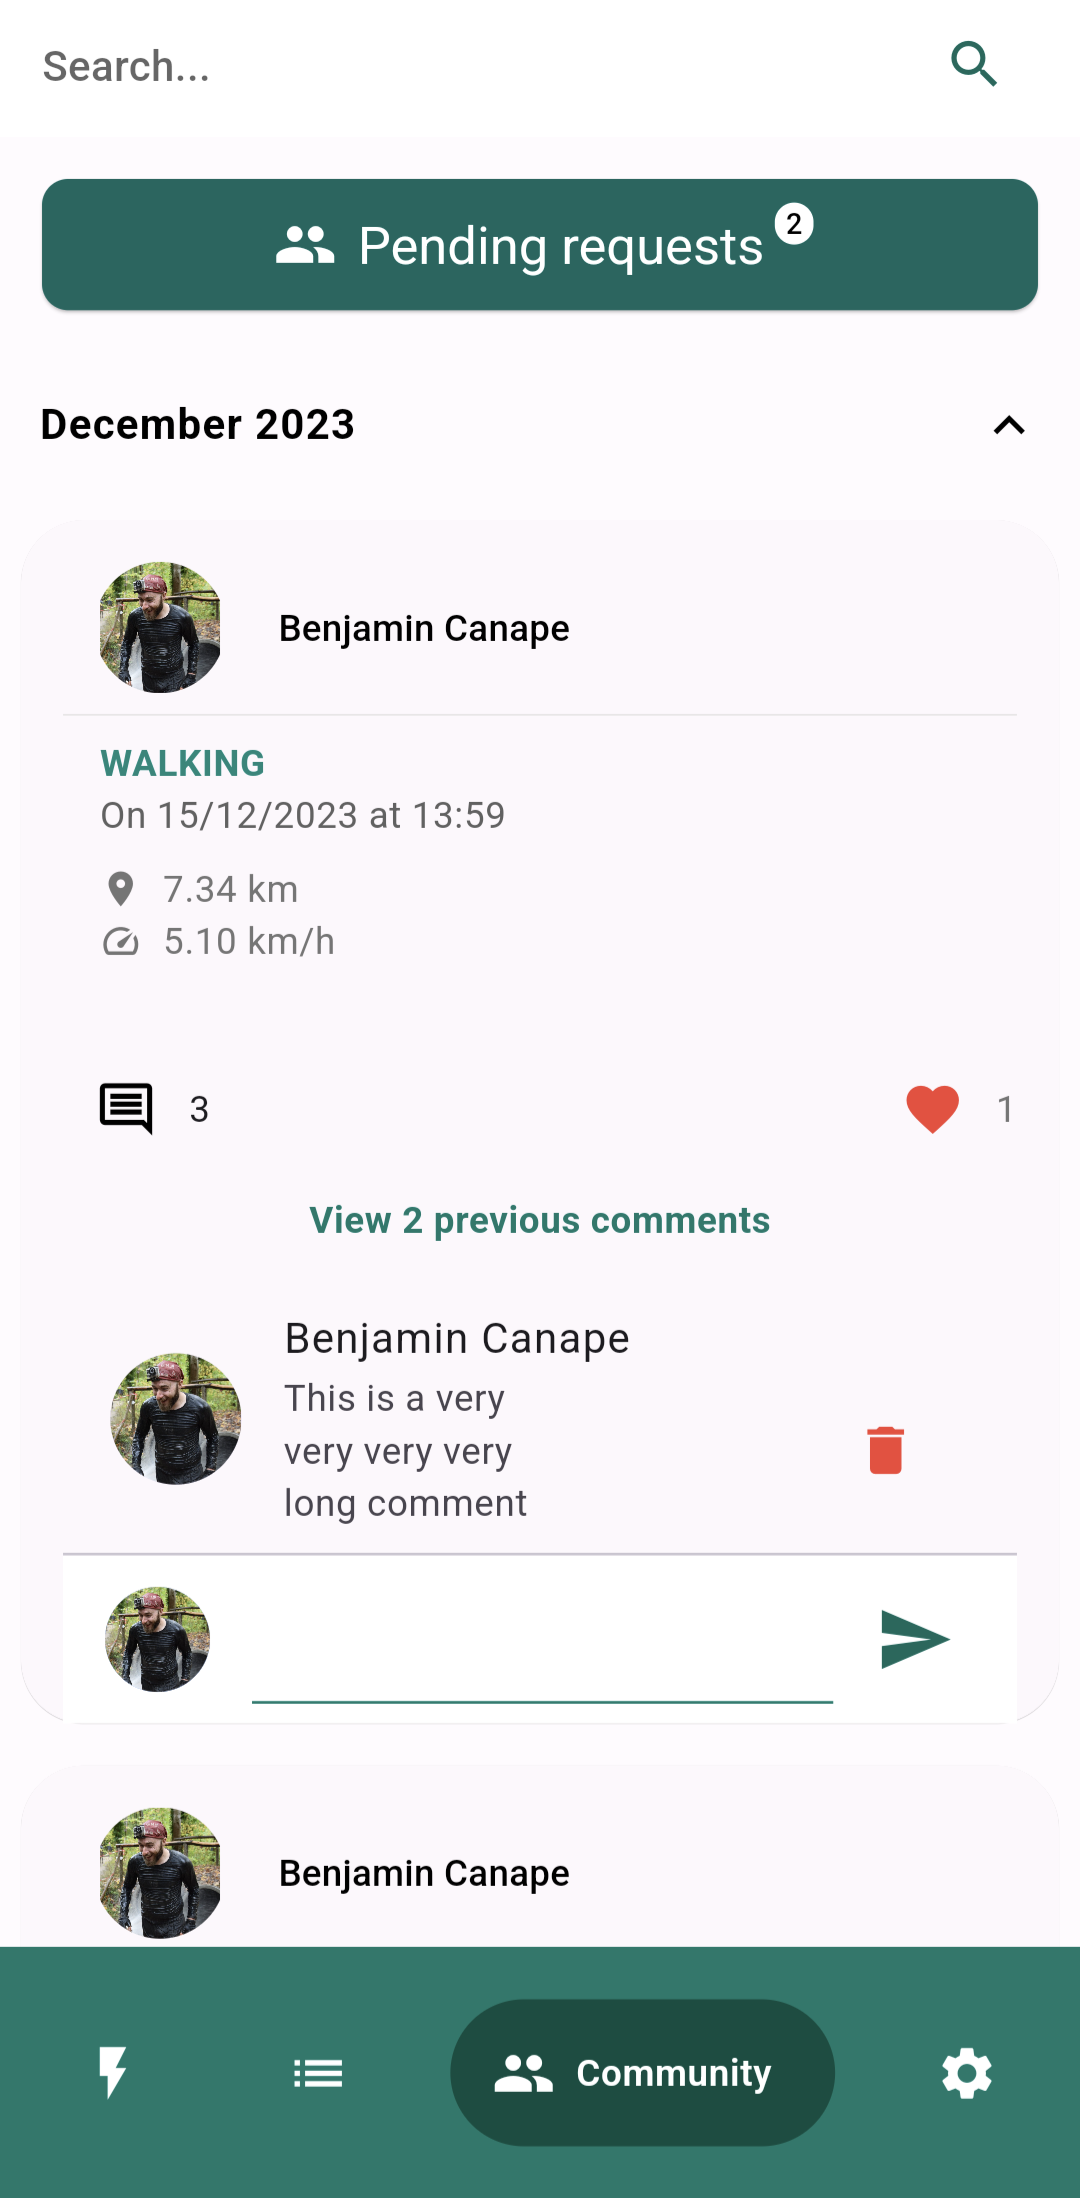
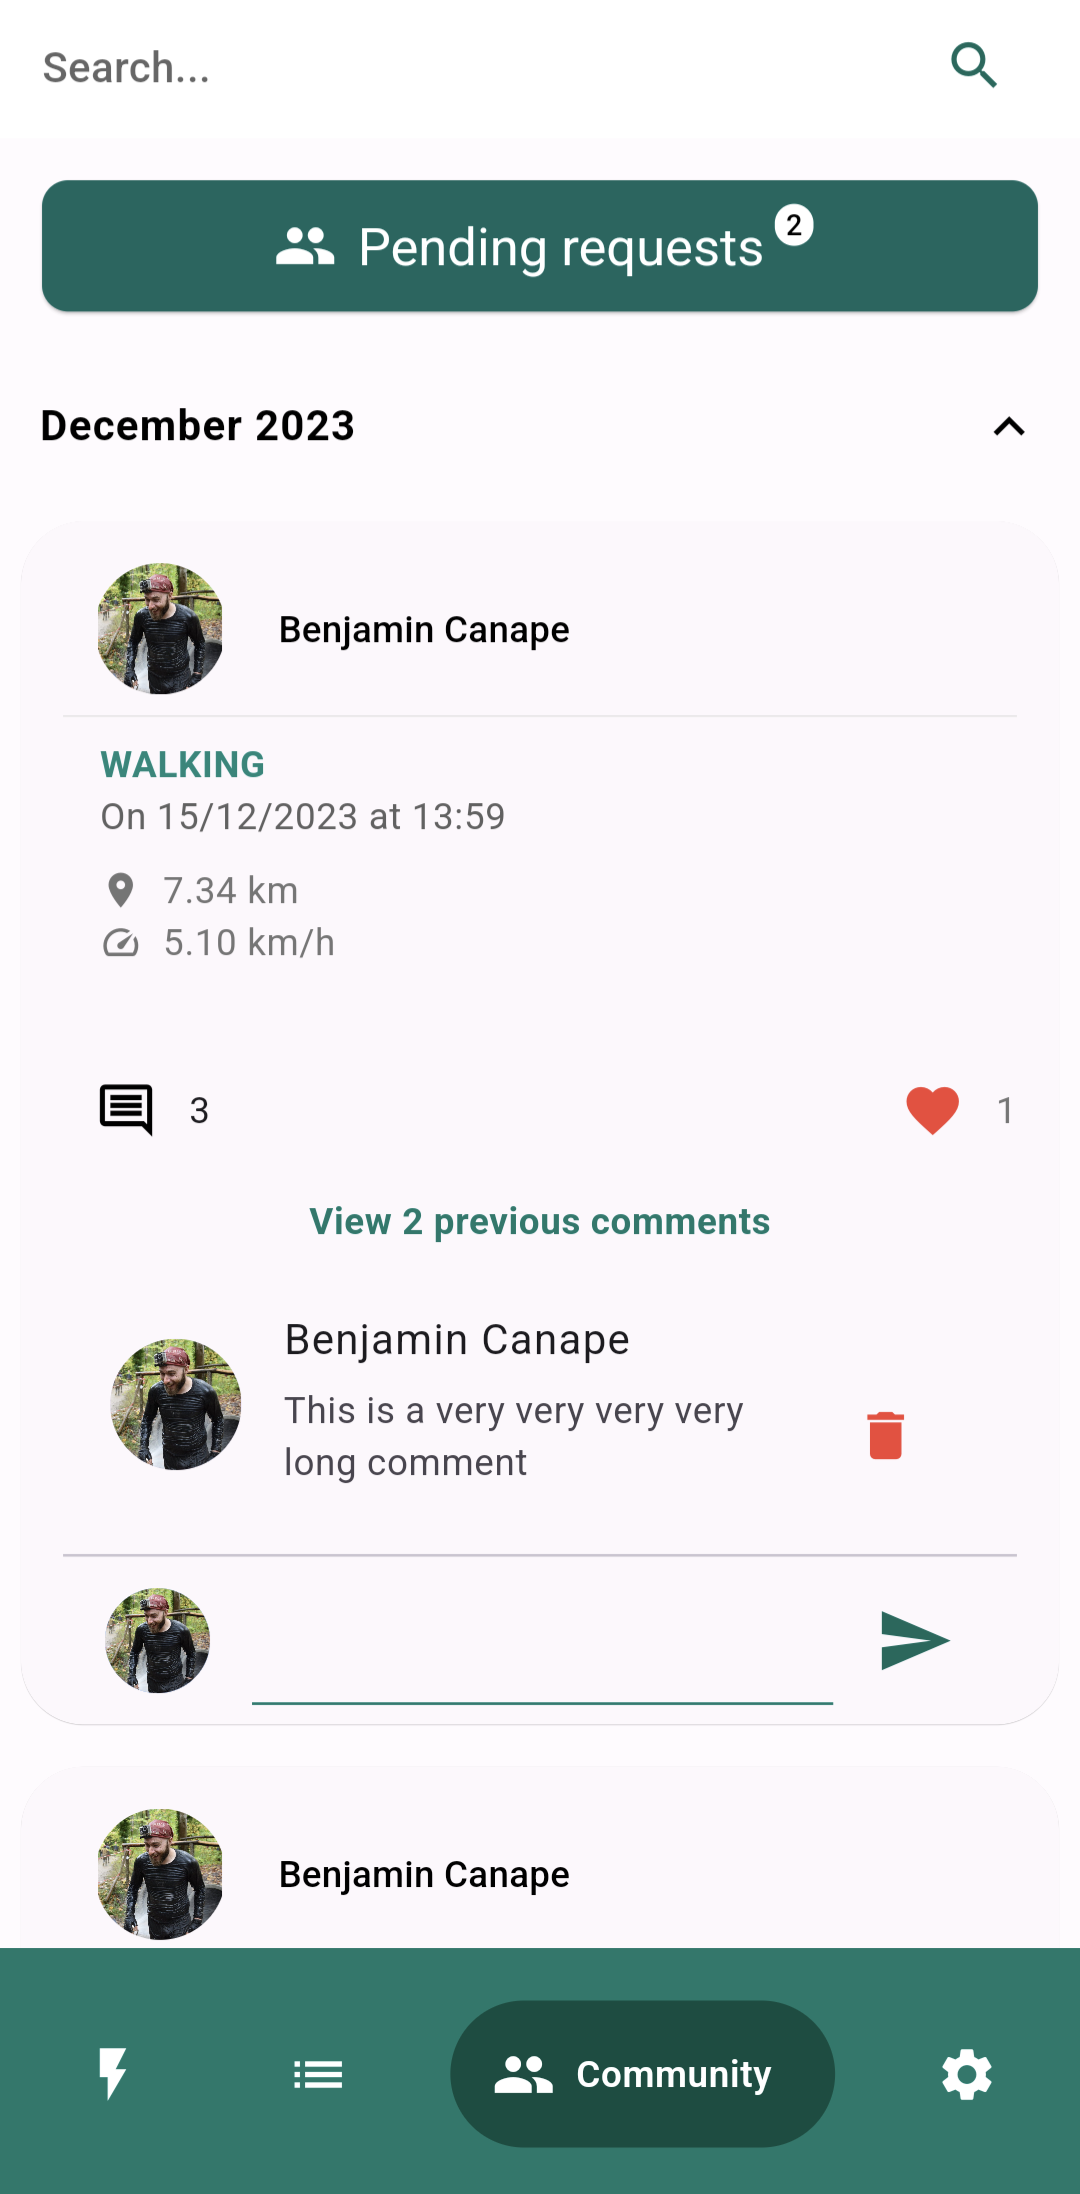
crop profile picture feature and improve comment display (#50)
* crop profile picture feature

* improve comment style

* fix comment style

* fix default color for comment

diff --git a/lib/presentation/common/activity/widgets/activity_comments.dart b/lib/presentation/common/activity/widgets/activity_comments.dart
@@ -22,13 +22,21 @@ class ActivityComments extends HookConsumerWidget {
   final GlobalKey<FormState> formKey;
 
   final currentUserPictureDataProvider =
-      FutureProvider.family<String?, Activity>((ref, activity) async {
+      FutureProvider.family<ImageProvider?, Activity>((ref, activity) async {
     final user = await StorageUtils.getUser();
     final provider =
         ref.read(activityItemViewModelProvider(activity.id).notifier);
 
     user != null ? provider.getProfilePicture(user.id) : null;
-    return user?.id;
+
+    if (user?.id != null) {
+      final profilePicture =
+          ref.watch(profilePictureViewModelProvider(user!.id)).profilePicture;
+      return profilePicture != null
+          ? MemoryImage(profilePicture)
+          : await ColorUtils.colorToImageProvider((Colors.white70));
+    }
+    return await ColorUtils.colorToImageProvider(Colors.white70);
   });
 
   final commentUserPictureDataProvider =
@@ -90,7 +98,6 @@ class ActivityComments extends HookConsumerWidget {
                       overflow: TextOverflow.visible,
                     ),
                   ),
-                  const Spacer(),
                   if (currentUser.id == comment.user.id)
                     IconButton(
                       color: ColorUtils.black,
@@ -201,24 +208,14 @@ class ActivityComments extends HookConsumerWidget {
             height: state.comments.isNotEmpty ? 210 : 80,
             child: CommentBox(
               userImage: currentUserPictureProvider.when(
-                data: (userId) {
-                  if (userId != null) {
-                    final profilePicture = ref
-                        .watch(profilePictureViewModelProvider(userId))
-                        .profilePicture;
-                    return profilePicture != null
-                        ? MemoryImage(profilePicture)
-                        : null;
-                  }
-                  return null;
-                },
-                loading: () => null,
-                error: (_, __) => null,
-              ),
+                  data: (picture) {
+                    return picture;
+                  },
+                  loading: () => null,
+                  error: (_, __) => null),
               sendButtonMethod: () => commentsProvider.comment(currentActivity),
               formKey: formKey,
               commentController: commentsProvider.commentController,
-              backgroundColor: ColorUtils.white,
               textColor: ColorUtils.mainMedium,
               sendWidget:
                   Icon(Icons.send_sharp, size: 30, color: ColorUtils.main),

diff --git a/lib/presentation/common/core/widgets/upload_file.dart b/lib/presentation/common/core/widgets/upload_file.dart
@@ -3,10 +3,11 @@ import 'dart:typed_data';
 import 'package:flutter/material.dart';
 import 'package:flutter_gen/gen_l10n/app_localizations.dart';
 import 'package:hooks_riverpod/hooks_riverpod.dart';
+import 'package:image_cropper/image_cropper.dart';
 import 'package:image_picker/image_picker.dart';
-import '../utils/ui_utils.dart';
 
 import '../utils/color_utils.dart';
+import '../utils/ui_utils.dart';
 
 /// A widget that allow to upload a file
 class UploadFileWidget extends HookConsumerWidget {
@@ -61,9 +62,32 @@ class UploadFileWidget extends HookConsumerWidget {
               await _picker.pickImage(source: ImageSource.gallery);
 
           if (pickedImage != null) {
-            Uint8List file = await pickedImage.readAsBytes();
+            CroppedFile? croppedFile = await ImageCropper().cropImage(
+              sourcePath: pickedImage.path,
+              aspectRatioPresets: [
+                CropAspectRatioPreset.square,
+                CropAspectRatioPreset.ratio3x2,
+                CropAspectRatioPreset.original,
+                CropAspectRatioPreset.ratio4x3,
+                CropAspectRatioPreset.ratio16x9
+              ],
+              uiSettings: [
+                AndroidUiSettings(
+                    toolbarTitle: 'Cropper',
+                    toolbarColor: ColorUtils.main,
+                    toolbarWidgetColor: Colors.white,
+                    initAspectRatio: CropAspectRatioPreset.square,
+                    lockAspectRatio: false),
+                IOSUiSettings(
+                  title: 'Cropper',
+                ),
+              ],
+            );
 
-            callbackFunc(file);
+            if (croppedFile != null) {
+              Uint8List file = await croppedFile.readAsBytes();
+              callbackFunc(file);
+            }
           }
         },
         child: Text(AppLocalizations.of(context)!.profile_picture_select,

diff --git a/lib/presentation/common/core/utils/color_utils.dart b/lib/presentation/common/core/utils/color_utils.dart
@@ -1,3 +1,5 @@
+import 'dart:ui' as ui;
+
 import 'package:flutter/material.dart';
 
 /// Utility class for color-related operations.
@@ -65,6 +67,22 @@ class ColorUtils {
     final darkColor = generateDarkColor(baseColor);
     final lightColor = generateLightColor(baseColor);
     return [darkColor, lightColor];
+  }
+
+  static Future<ImageProvider<Object>?> colorToImageProvider(Color color,
+      {double width = 32.0, double height = 32.0}) async {
+    final recorder = ui.PictureRecorder();
+    final canvas = Canvas(recorder);
+    final paint = Paint()..color = color;
+    canvas.drawRect(Rect.fromLTRB(0, 0, width, height), paint);
+    final picture = recorder.endRecording();
+    final img = await picture.toImage(width.toInt(), height.toInt());
+    final byteData = await img.toByteData(format: ui.ImageByteFormat.png);
+    if (byteData != null) {
+      return MemoryImage(byteData.buffer.asUint8List());
+    } else {
+      return null;
+    }
   }
 }
 
